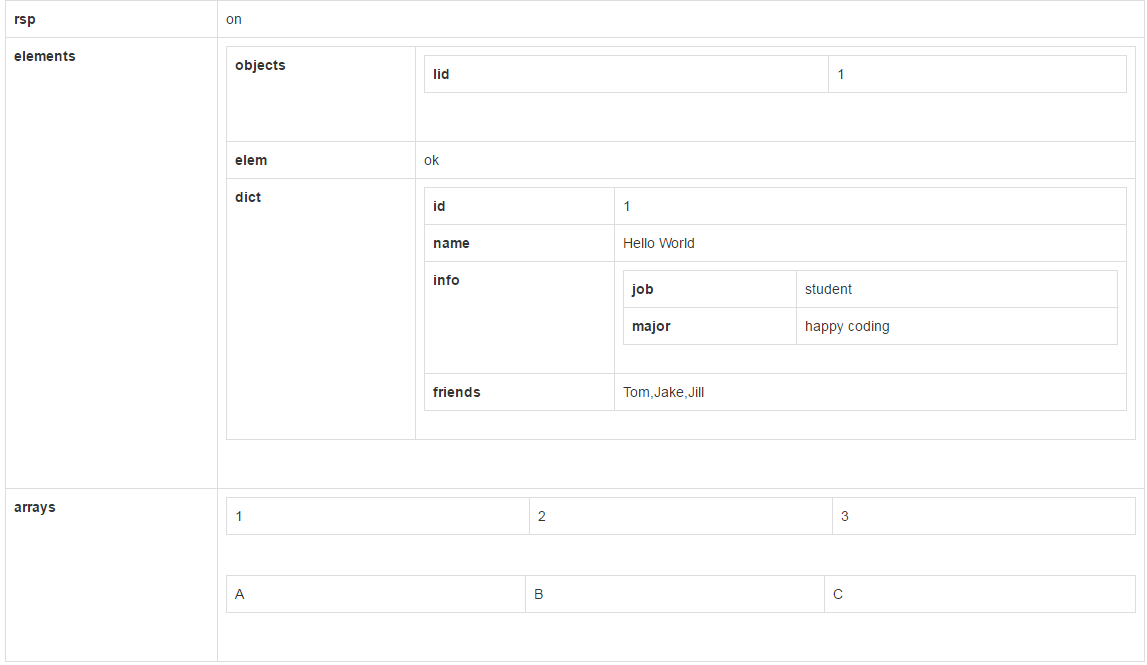
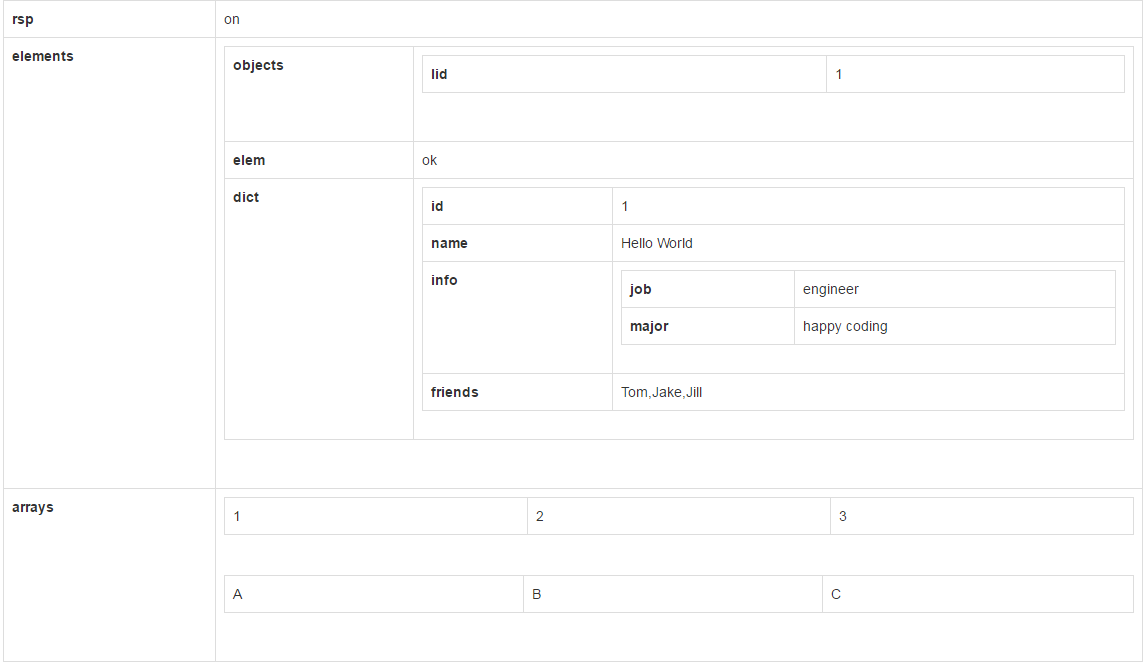
modify name

diff --git a/index.html b/index.html
@@ -34,7 +34,7 @@ var jdata =
                 "id" : 1,
                 "name" : "Hello World",
                 "info" : {
-                    "job" : "student",
+                    "job" : "engineer",
                     "major" : "happy coding"
                 },
                 "friends" : [
